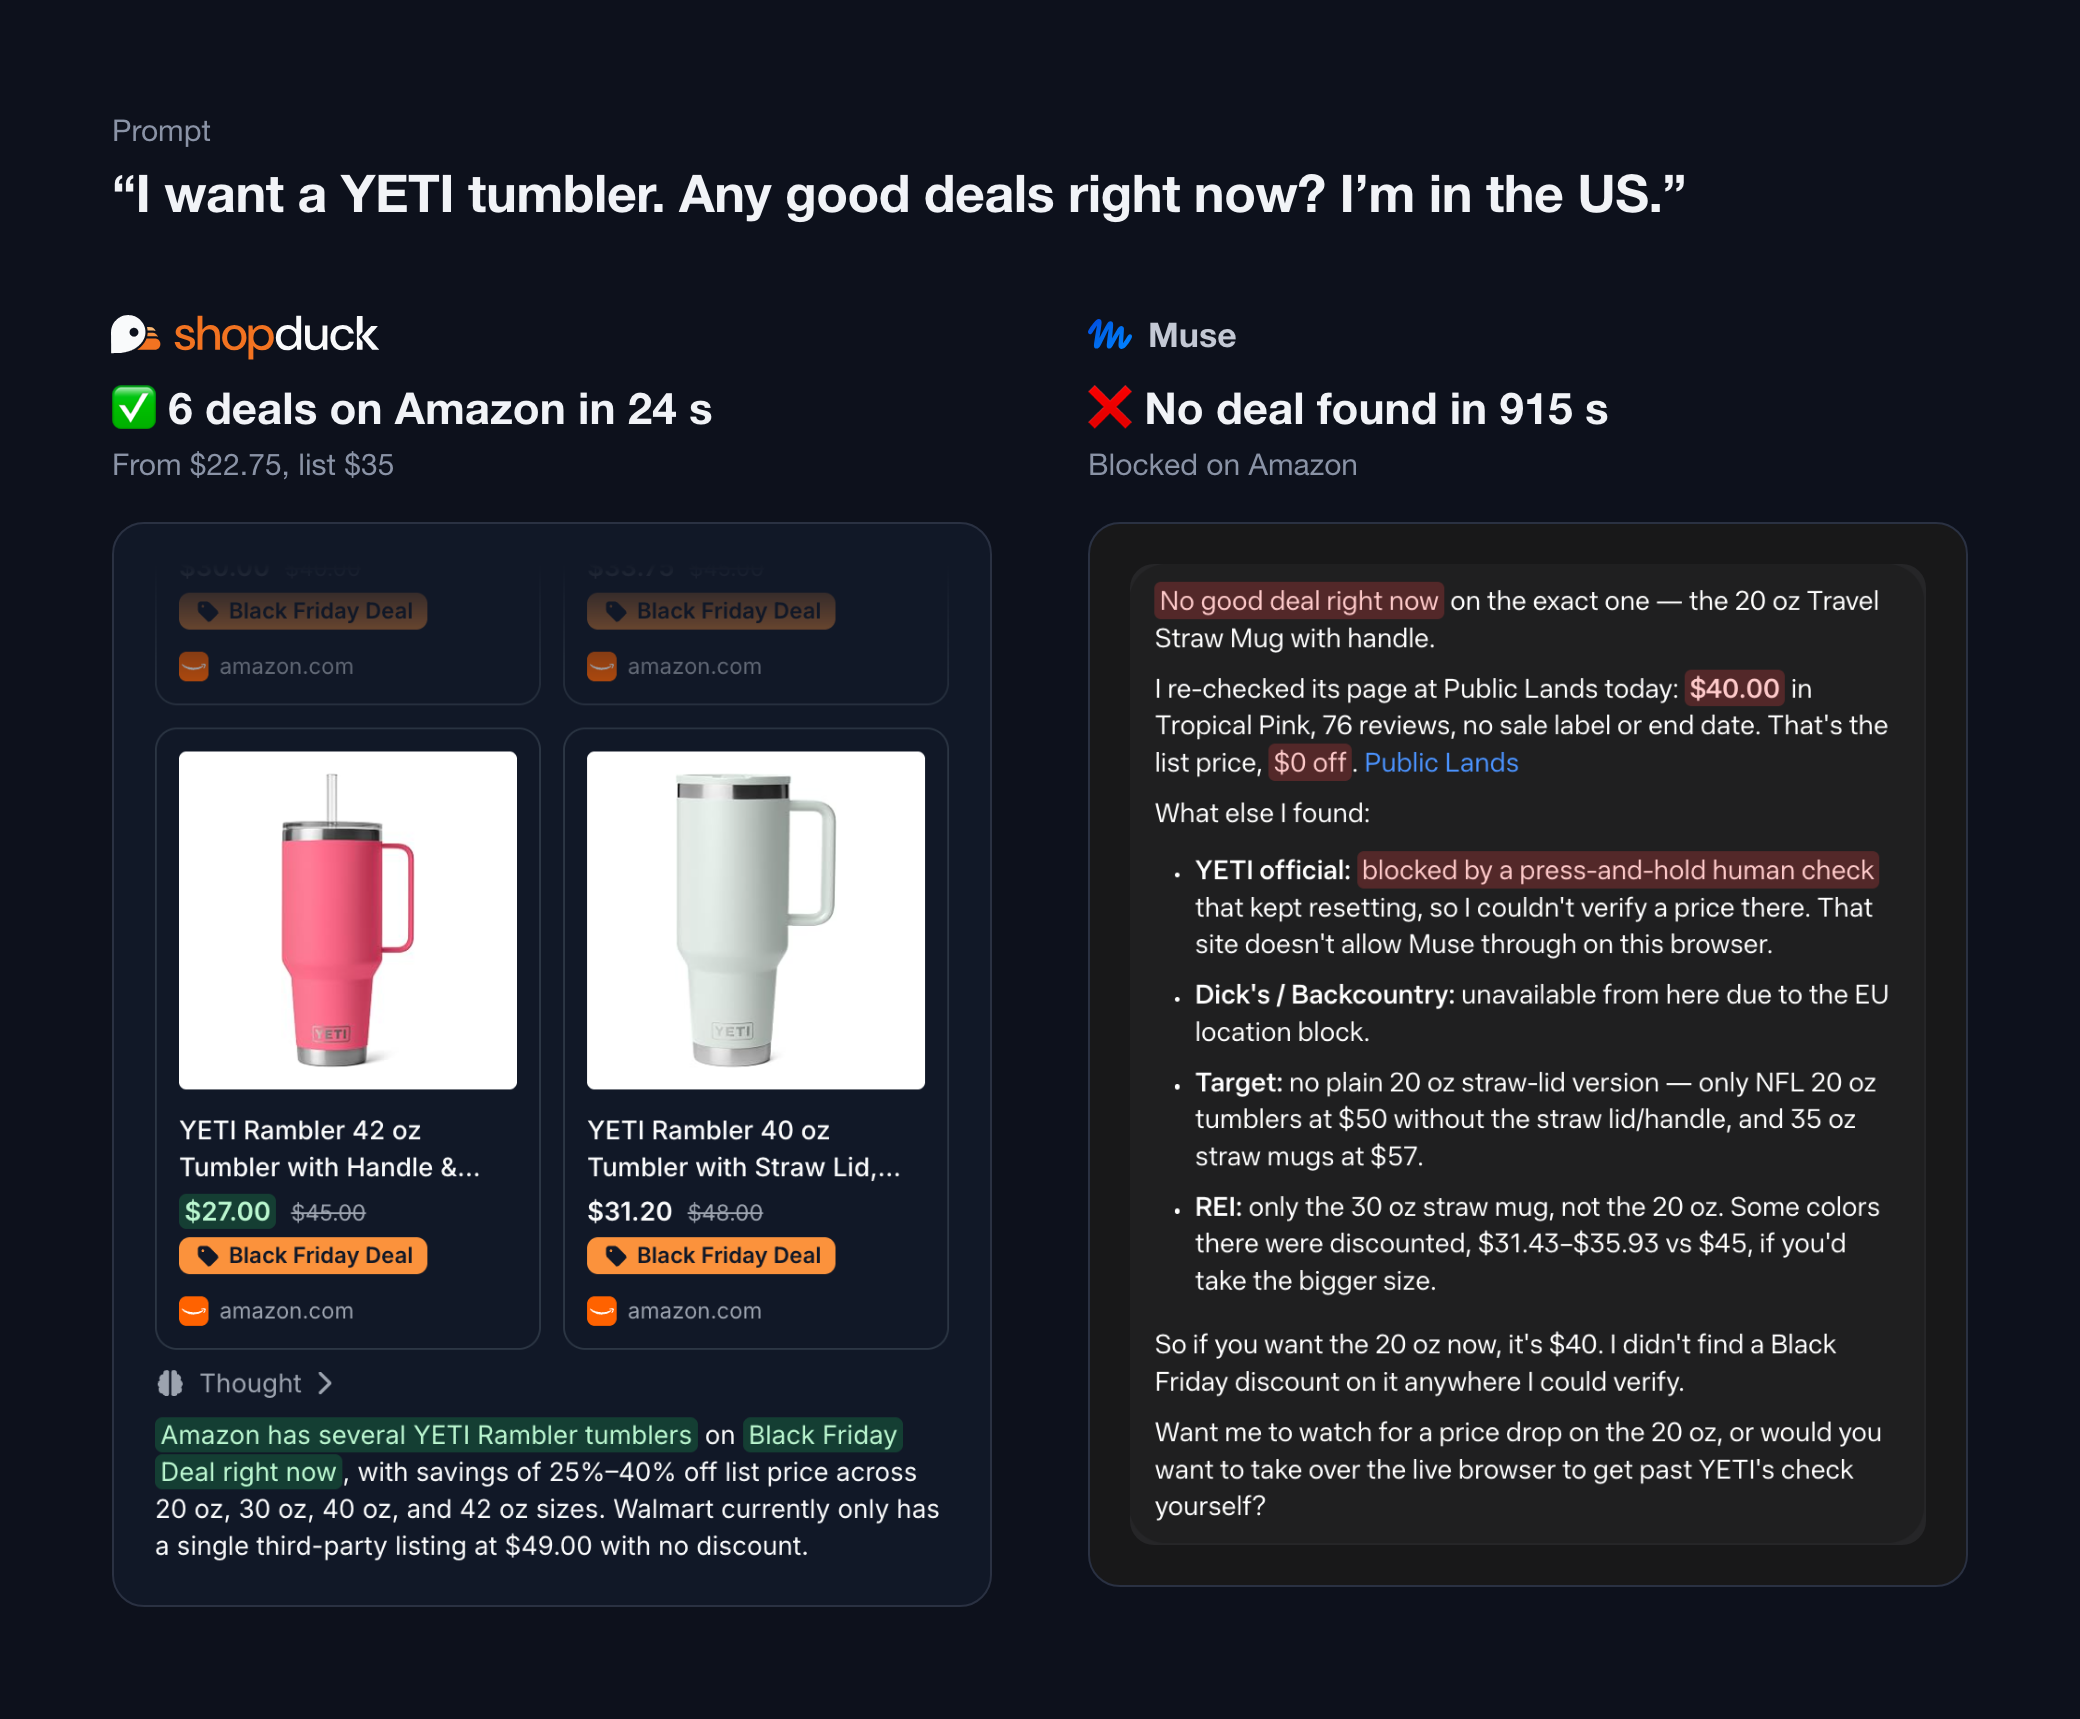
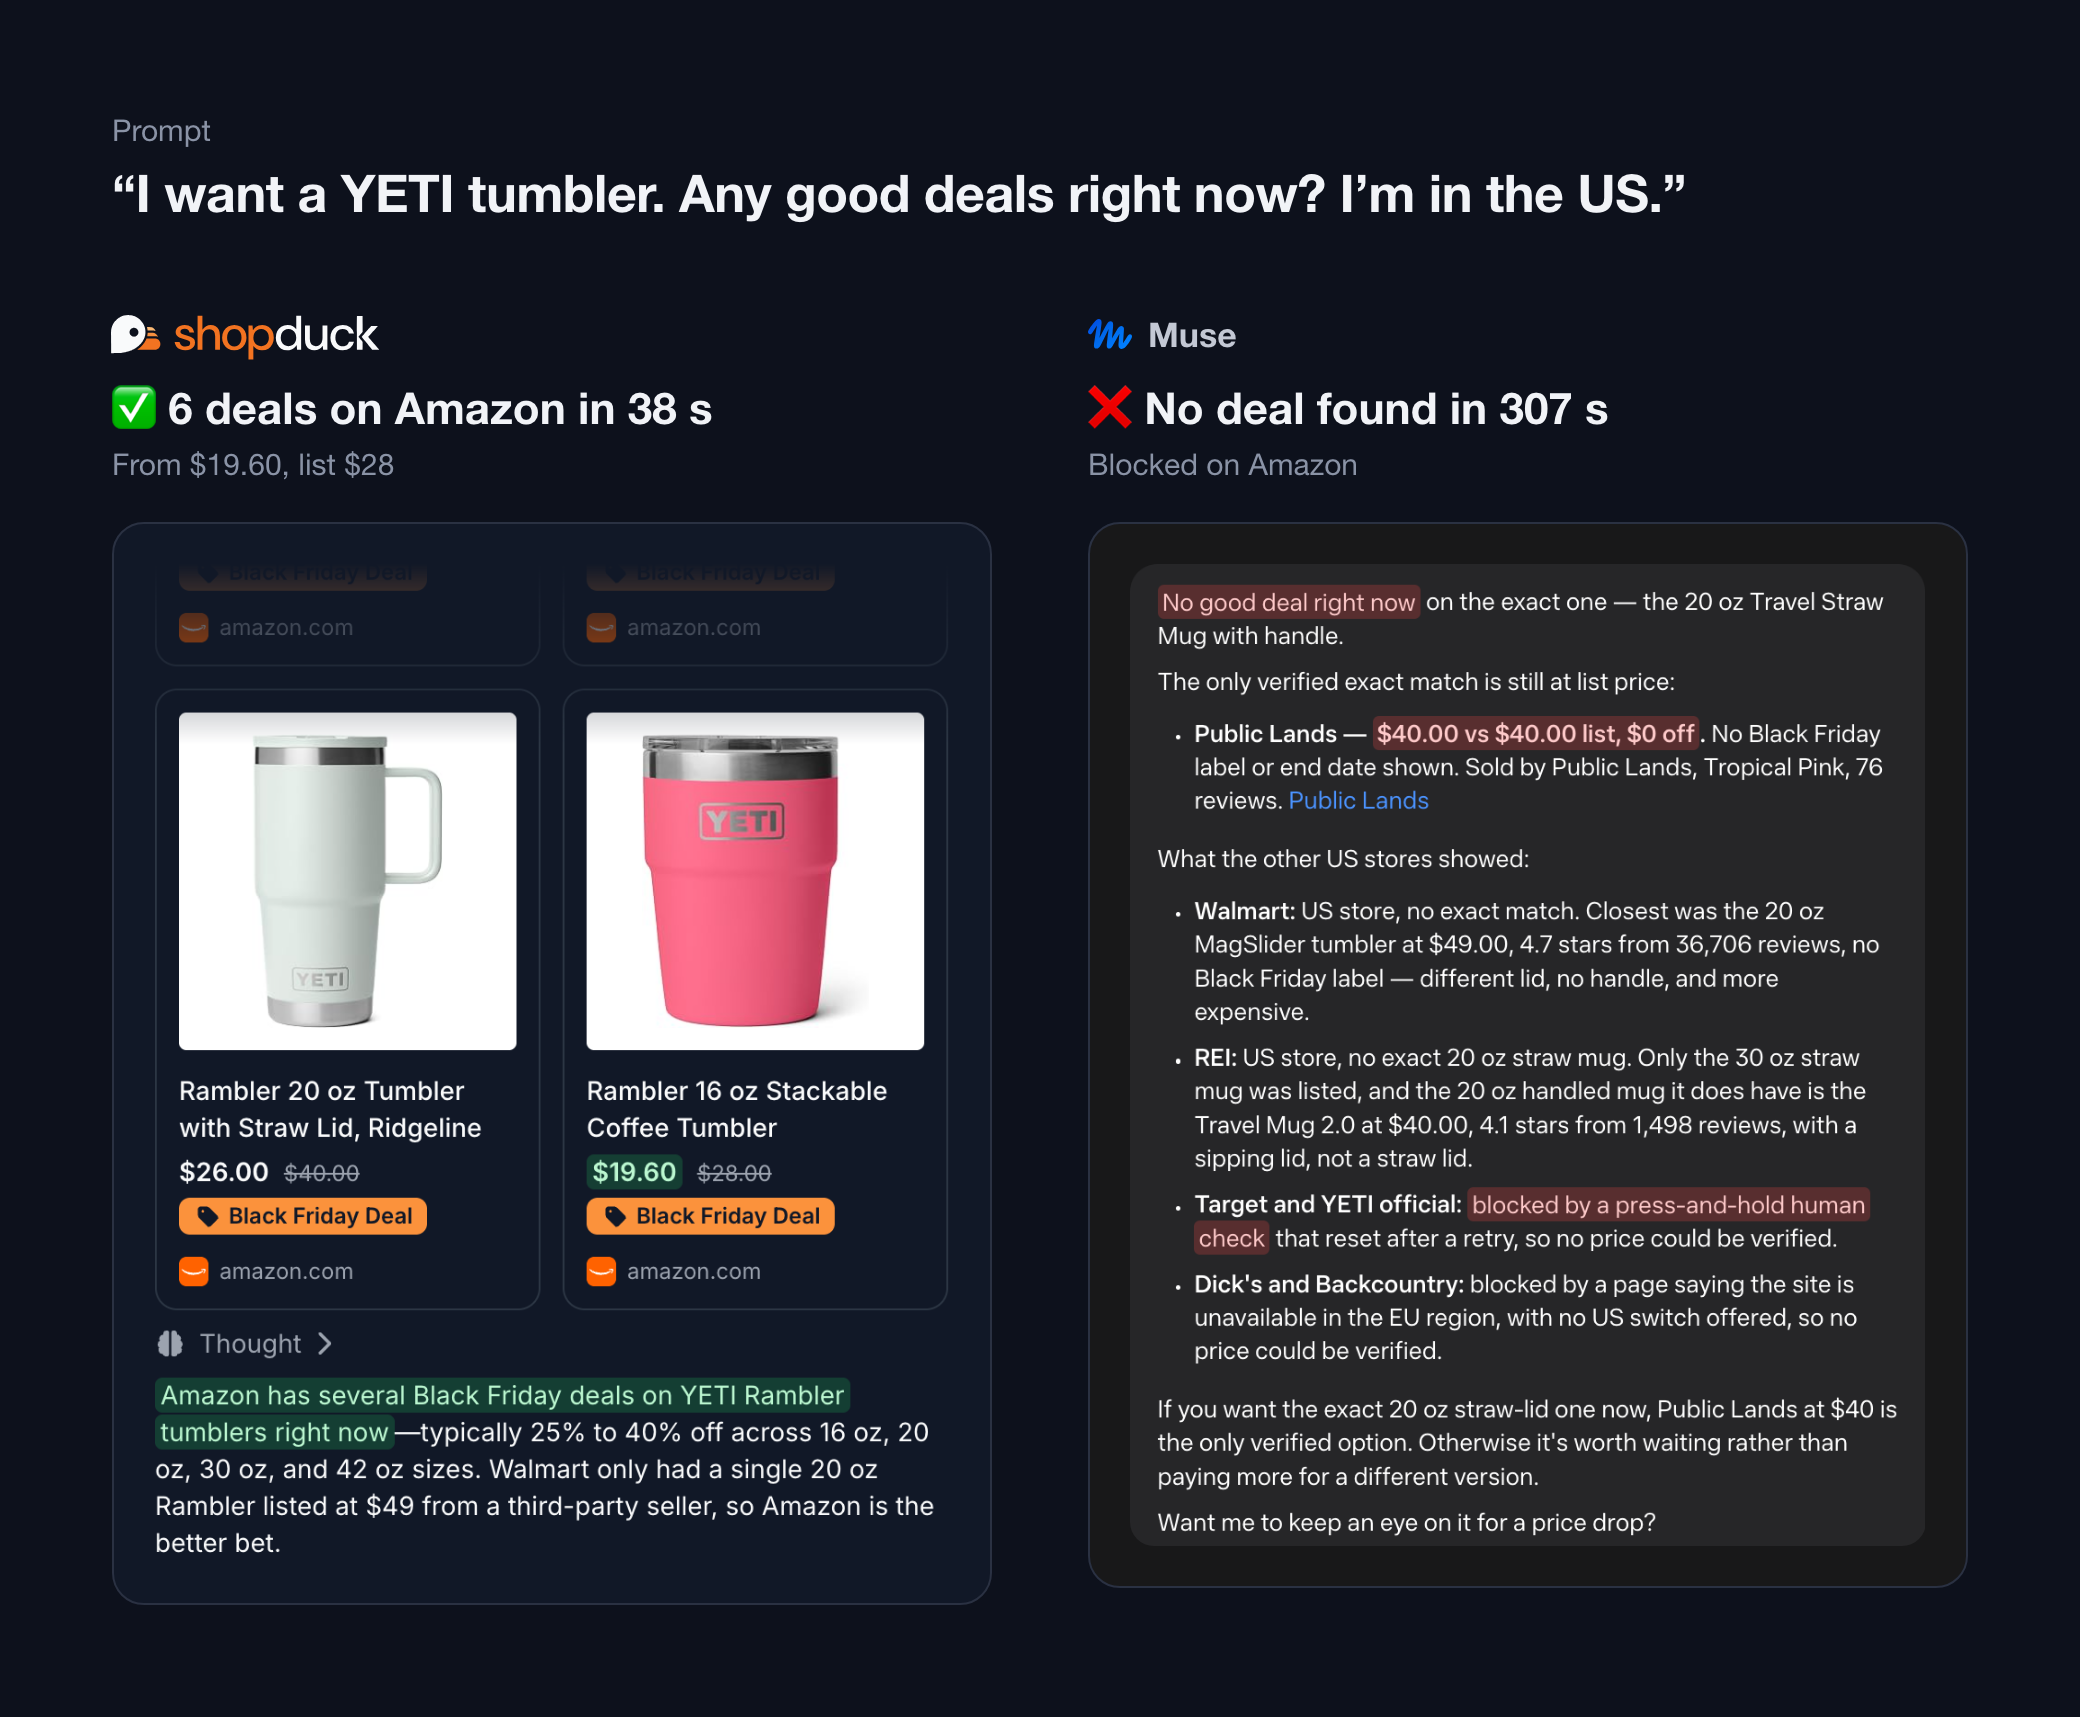
docs: the comparison comes from one live run of both agents, timed by their own servers

diff --git a/README.md b/README.md
@@ -14,7 +14,7 @@ ShopDuck solves this with [Reduck](https://reduck.ai/), which provides a [librar
 ShopDuck works on stores where agents like Muse are blocked, starting with Amazon:
 
 <p align="center">
-  <img src="docs/shopduck-vs-muse.png" alt="ShopDuck finds 6 YETI deals on Amazon in 24 s; Muse finds none in 915 s">
+  <img src="docs/shopduck-vs-muse.png" alt="ShopDuck finds 6 YETI deals on Amazon in 38 s; Muse finds none in 307 s">
   <br>
   <sub>ShopDuck runs scripts like <a href="https://reduck.ai/explore/scripts/reduck/amazon.com/search-products">Amazon search</a> on a stealthy browser, which return full data, deals included. Muse is blocked on Amazon.</sub>
 </p>
